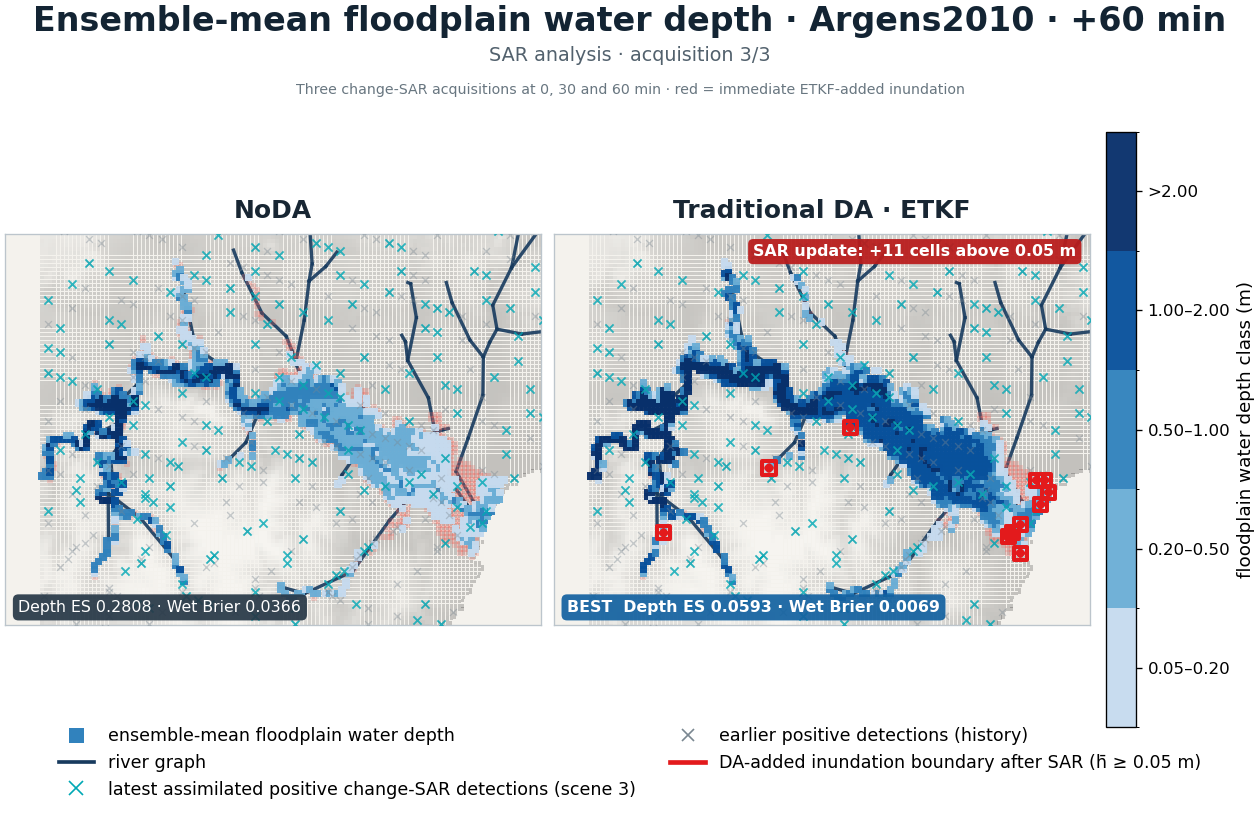
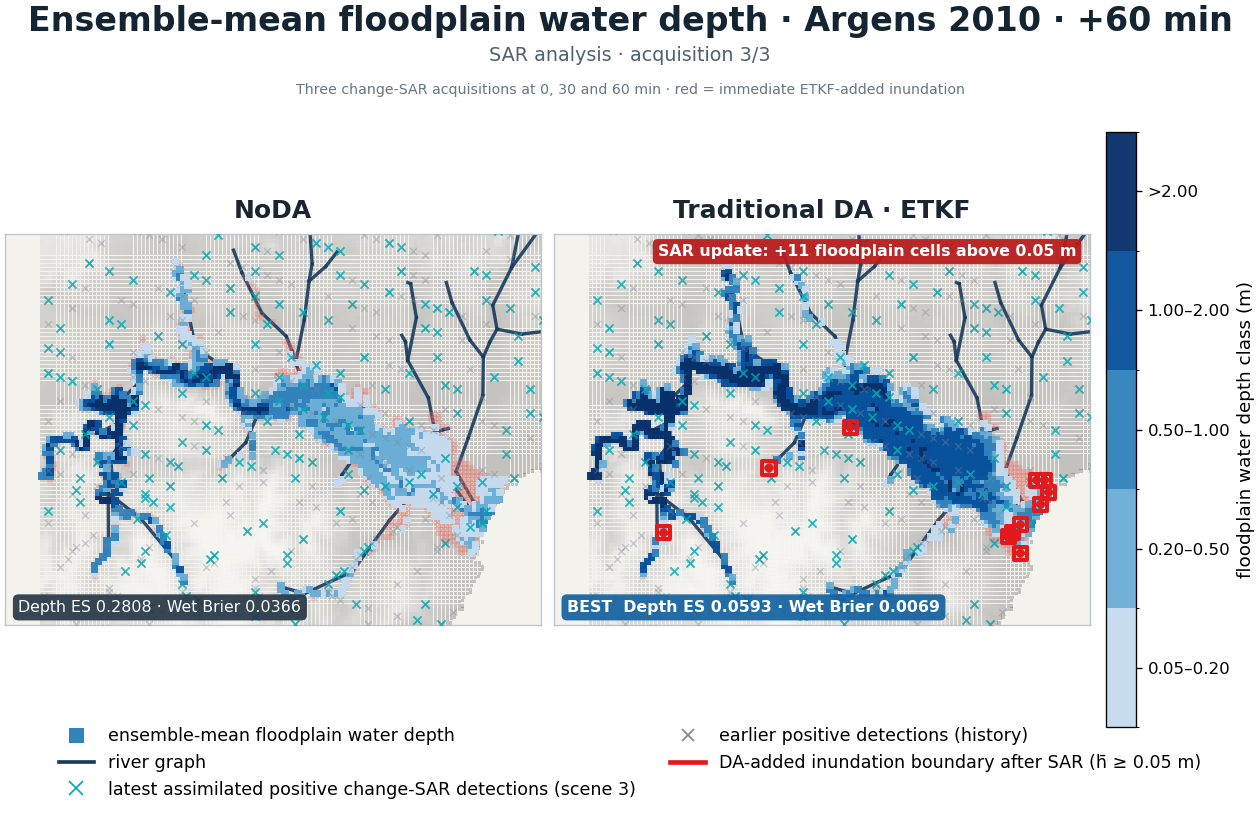
Polish the 0-60 minute Argens visualization

Changed region(s): [[0.0, 0.0, 0.9905, 0.0613], [0.4952, 0.2757, 0.7119, 0.337]]

diff --git a/scripts/render_comparison.py b/scripts/render_comparison.py
@@ -751,7 +751,7 @@ def main() -> None:
                     axis.text(
                         0.975,
                         0.975,
-                        f"SAR update: +{added_count} cells above {wet_threshold:.2f} m",
+                        f"SAR update: +{added_count} floodplain cells above {wet_threshold:.2f} m",
                         transform=axis.transAxes,
                         ha="right",
                         va="top",
